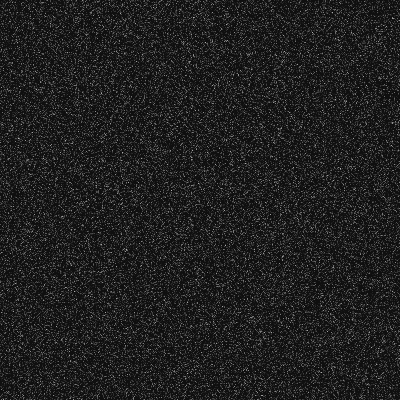
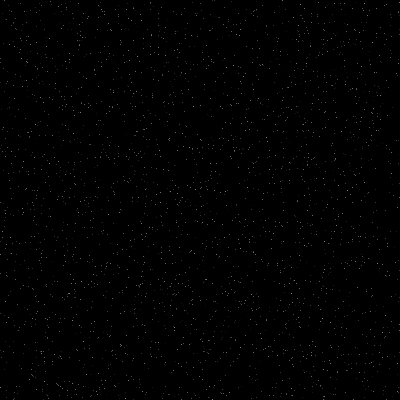
Better background, groundwork for powerup system

diff --git a/bolides.js b/bolides.js
@@ -1,5 +1,5 @@
 /*jshint loopfunc: true, unused: false, strict: true, debug: true, globalstrict: true, moz: true, browser: true, devel: true, undef: true */
-/* globals Asteroid, Bullet, EvilBullet, UFO, degreesToRadians */ // Errors are really distacting, so I killed most of them
+/* globals Asteroid, Bullet, EvilBullet, UFO */ // Errors are really distacting, so I killed most of them
 'use strict';
 var bolides = {
 	// Self explanatory
@@ -23,6 +23,7 @@ var bolides = {
 	},
 	// All the stuff related to the main menu (mostly self explanatory)
 	menu: {
+        container: document.getElementById('menu'),
 		nav: document.getElementsByTagName('nav')[0],
 		instructions: document.getElementById('instructions'),
 		credits: document.getElementById('credits'),
@@ -51,24 +52,19 @@ var bolides = {
 				bolides.menu.nav.style.display = 'flex';
 				bolides.menu.credits.style.display = 'none';
 			};
-            // Below code is for unimplemented shop section.
-			/*document.getElementById('shopButton').onclick = function() {
+			document.getElementById('shopButton').onclick = function() {
 				bolides.menu.nav.style.display = 'none';
 				bolides.menu.shop.style.display = 'block';
 			};
 			bolides.menu.shop.onclick = function() {
 				bolides.menu.nav.style.display = 'flex';
 				bolides.menu.shop.style.display = 'none';
-			};*/
+			};
 		}
 	},
 	// KeyPress object for storing keypresses
 	keyPresses: {
 		up: false,
-		w: false,
-		a: false,
-		s: false,
-		d: false,
 		down: false,
 		left: false,
 		right: false,
@@ -98,6 +94,7 @@ var bolides = {
 		heart: document.createElement('img'),
 		bullet: document.createElement('img'),
 		bolide: document.createElement('img'),
+        teleporter: document.createElement('img'),
 		ufo: document.createElement('img'),
 		ufobullet: document.createElement('img'),
 	},
@@ -130,6 +127,8 @@ var bolides = {
 		// Declare the canvas's context as 2D
 		bolides.canva = document.getElementById('canvas');
 		bolides.canvas.ctx = bolides.canva.getContext('2d');
+        bolides.canva.style.display = 'block';
+        bolides.menu.container.style.display = 'none';
 
 		// Set the canvas's size
 		bolides.canva.width = window.innerWidth - 4;
@@ -173,6 +172,15 @@ var bolides = {
 					break;
 				case 80: // P
 					bolides.pause();
+                    break;
+                // Unfinished code for teleporter
+                /*case 84: // T
+                    if (JSON.parse(localStorage.teleporter)) {
+                        bolides.spaceship.x = event.clientX;
+                        bolides.spaceship.y = event.clientY;
+                        localStorage.teleporter = false;
+                    }
+                    break;*/
 			}
 		});
 
@@ -231,13 +239,18 @@ var bolides = {
 		}, 50);
 
 		// Set the image sources
-		bolides.images.ship.setAttribute('src', 'images/spaceship.png');
-		bolides.images.asteroid.setAttribute('src', 'images/asteroid.png');
-		bolides.images.heart.setAttribute('src', 'images/heart.png');
-		bolides.images.bullet.setAttribute('src', 'images/bullet.png');
-		bolides.images.bolide.setAttribute('src', 'images/bolide.png');
-		bolides.images.ufo.setAttribute('src', 'images/ufo.png');
-		bolides.images.ufobullet.setAttribute('src', 'images/evilbullet.png');
+		bolides.images.ship.src = 'images/spaceship.png';
+		bolides.images.asteroid.src = 'images/asteroid.png';
+		bolides.images.heart.src = 'images/heart.png';
+        if (JSON.parse(localStorage.bullet)) {
+            bolides.images.bullet.src = 'images/bullet-2.png';
+        } else {
+            bolides.images.bullet.src = 'images/bullet.png';
+        }
+		bolides.images.bolide.src = 'images/bolide.png';
+        bolides.images.teleporter.src = 'images/teleporter.png';
+		bolides.images.ufo.src = 'images/ufo.png';
+		bolides.images.ufobullet.src = 'images/evilbullet.png';
 
 		//Set vital attributes again, just in case
 		bolides.spaceship.hearts = 3;
@@ -261,7 +274,7 @@ var bolides = {
 		bolides.canvas.ctx.fillRect(window.innerWidth / 2 - window.innerWidth / 6, window.innerHeight / 2 - 26, 420, 60);
 		bolides.canvas.ctx.fillStyle = 'black';
 		// Draw the restart button
-		bolides.canvas.ctx.fillText('Restart?', window.innerWidth / 2 - window.innerWidth / 6 + 30, window.innerHeight / 2 + 25);
+		bolides.canvas.ctx.fillText('Restart', window.innerWidth / 2 - window.innerWidth / 6 + 30, window.innerHeight / 2 + 25);
 		addEventListener('click', function(e) {
 			if (((window.innerWidth / 2 - window.innerWidth / 6 < e.clientX) && (e.clientX < window.innerWidth / 2 - window.innerWidth / 6 + 420)) && ((window.innerHeight / 2 - 26 < e.clientY) && (e.clientY < window.innerHeight / 2 + 34))) {
 				// Basically reloads the page
@@ -301,6 +314,7 @@ var bolides = {
 
 	// Loop
 	loop: function() {
+        console.log(bolides.keyPresses.up);
 		// Is the player out of health?
 		if (bolides.spaceship.hearts <= 0) {
 			// Then display 'Game over'
@@ -353,7 +367,7 @@ var bolides = {
 			// Then change its angle by 20 degrees over 1/10 second
 			// This animation (and the right one, below) is added to smoothen turning
 			var leftInterval = setInterval(function() {
-				bolides.spaceship.angle -= degreesToRadians(6);
+				bolides.spaceship.angle -= (Math.PI / 180) * 6; // Convert to rad
 			}, 20);
 			setTimeout(function() {
 				clearInterval(leftInterval);
@@ -364,7 +378,7 @@ var bolides = {
 			// Then change its angle by -20 degrees over 1/10 second
 			// ( ͡° ͜ʖ ͡°)
 			var rightInterval = setInterval(function() {
-				bolides.spaceship.angle += degreesToRadians(6);
+				bolides.spaceship.angle += (Math.PI / 180) * 6; // Convert to rad
 			}, 20);
 			setTimeout(function() {
 				clearInterval(rightInterval);
@@ -397,13 +411,13 @@ var bolides = {
 		} else if (bolides.spaceship.y <= -30) {
 			bolides.spaceship.y = window.innerHeight;
 		}
-		// If it's moving and vulnerable
-		if (bolides.spaceship.velocity.x + bolides.spaceship.velocity.y !== 0 && bolides.spaceship.isVulnerable) {
+		// If accelerating
+		if (bolides.keyPresses.up && bolides.spaceship.isVulnerable) {
 			// Use the moving ship pic.
-			bolides.images.ship.setAttribute('src', 'images/spaceship-move.png');
-			// Elsewise, don't.
-		} else if (bolides.spaceship.velocity.x + bolides.spaceship.velocity.y === 0 && bolides.spaceship.isVulnerable) {
-			bolides.images.ship.setAttribute('src', 'images/spaceship.png');
+			bolides.images.ship.src = 'images/spaceship-move.png';
+			// If not, don't.
+		} else {
+			bolides.images.ship.src = 'images/spaceship.png';
 		}
 		bolides.bulletList.forEach(function(bullet) {
 			// Stop bullet
@@ -558,7 +572,7 @@ var bolides = {
 			// Rotate the ship around the center by the angle of the ship
 			bolides.canvas.ctx.rotate(bolides.spaceship.angle);
 			// Draw the ship
-			bolides.canvas.ctx.drawImage(bolides.images.ship, -18, -31, 36, 62);
+			bolides.canvas.ctx.drawImage(bolides.images.ship, -18, -31, 36, 74);
 			// Restore to normal
 			bolides.canvas.ctx.restore();
 		}
@@ -577,6 +591,11 @@ var bolides = {
 		});
 	}
 };
+
+if (localStorage.length !== 2) {
+    localStorage.bullet = false;
+    localStorage.teleporter = false;
+}
 
 // That's it! Just start the menu now.
 bolides.menu.menuStart();

diff --git a/index.html b/index.html
@@ -11,32 +11,36 @@
 </head>
 
 <body>
+    <div class="bg"></div>
+    <div class="bg"></div>
+    <div class="bg"></div>
     <section id="menu">
-        <div class="bg"></div>
         <nav>
             <h1>Bolides</h1>
             <button id="playButton">Play</button>
             <button id="instructionsButton">Instructions</button>
             <button id="creditsButton">Credits</button>
-            <!--<button id="shopButton">Shop</button>-->
+            <button id="shopButton">Shop</button>
         </nav>
         <div id="instructions">
             <p>Instructions</p>
             <p>Press space to fire, WASD or arrow keys to move. Asteroids are worth 100 pts, Bolides are worth 500 pts. Gain the level # times 100 pts to get to the next level.</p>
-            <p>&laquo; Click again to close &raquo;</p>
+            <p><< Click again to close >></p>
         </div>
         <div id="credits">
             <p>Game Engine: <a href="http://github.com/BrainiacMainiac">Nicholas Costa</a></p>
             <p>Art &amp; Sound: <a href="http://erikboesen.com">Erik Boesen</a></p>
-            <p>&laquo; Click again to close &raquo;</p>
+            <p><< Click again to close >></p>
         </div>
-        <!--
         <div id="shop">
             <img src="images/bullet.png">
             <h3>Bullet</h3>
-            <button>Upgrade</button>
+            <p>Upgraded bullet will not stop after hitting an asteroid, and will continue until passing off the screen.
+            <button class="purchase" id="bullet">Purchase for 20 credits</button>
+            <h3>Teleporter</h3>
+            <p>One time use. Press T to instantly teleport your spaceship to the position of your mouse pointer.</p>
+            <button class="purchase" id="teleporter">Purchase for 5 credits</button>
         </div>
-        -->
         <div id="login">
             <h3>Login to Bolides Multiplayer</h3>
             <form>
@@ -47,11 +51,6 @@
         <div class="bolide"></div>
     </section>
     <canvas id="canvas">Upgrade to Chrome or Firefox to use the Canvas API.</canvas>
-    <script>
-        function degreesToRadians(degrees) {
-            return (Math.PI / 180) * degrees;
-        };
-    </script>
     <script src="Bullet.js"></script>
     <script src="Asteroid.js"></script>
     <script src="bolides.js"></script>

diff --git a/style.css b/style.css
@@ -11,8 +11,8 @@
 body {
     width: 100vw;
     height: 100vh;
-    background: url(images/bg.png);
     font-family: 'Arcade', sans-serif;
+    background: black;
     -moz-osx-font-smoothing: grayscale;
     -webkit-font-smoothing: antialiased;
 }
@@ -59,6 +59,29 @@ a:hover {
     width: 200vw;
     height: 100vh;
 }
+@keyframes pan {
+    0% {
+        right: 0;
+        left: -100vw;
+    }
+    100% {
+        left: 0;
+        right: -100vw;
+    }
+}
+.bg:first-child {
+    background: url(images/bg-1.png);
+    animation: 50s pan infinite linear;
+}
+.bg:nth-child(2) {
+    background: url(images/bg-2.png);
+    animation: 60s pan infinite linear;
+}
+.bg:nth-child(3) {
+    background: url(images/bg-3.png);
+    animation: 70s pan infinite linear;
+}
+
 h1 {
     text-align: center;
     font-weight: 100;
